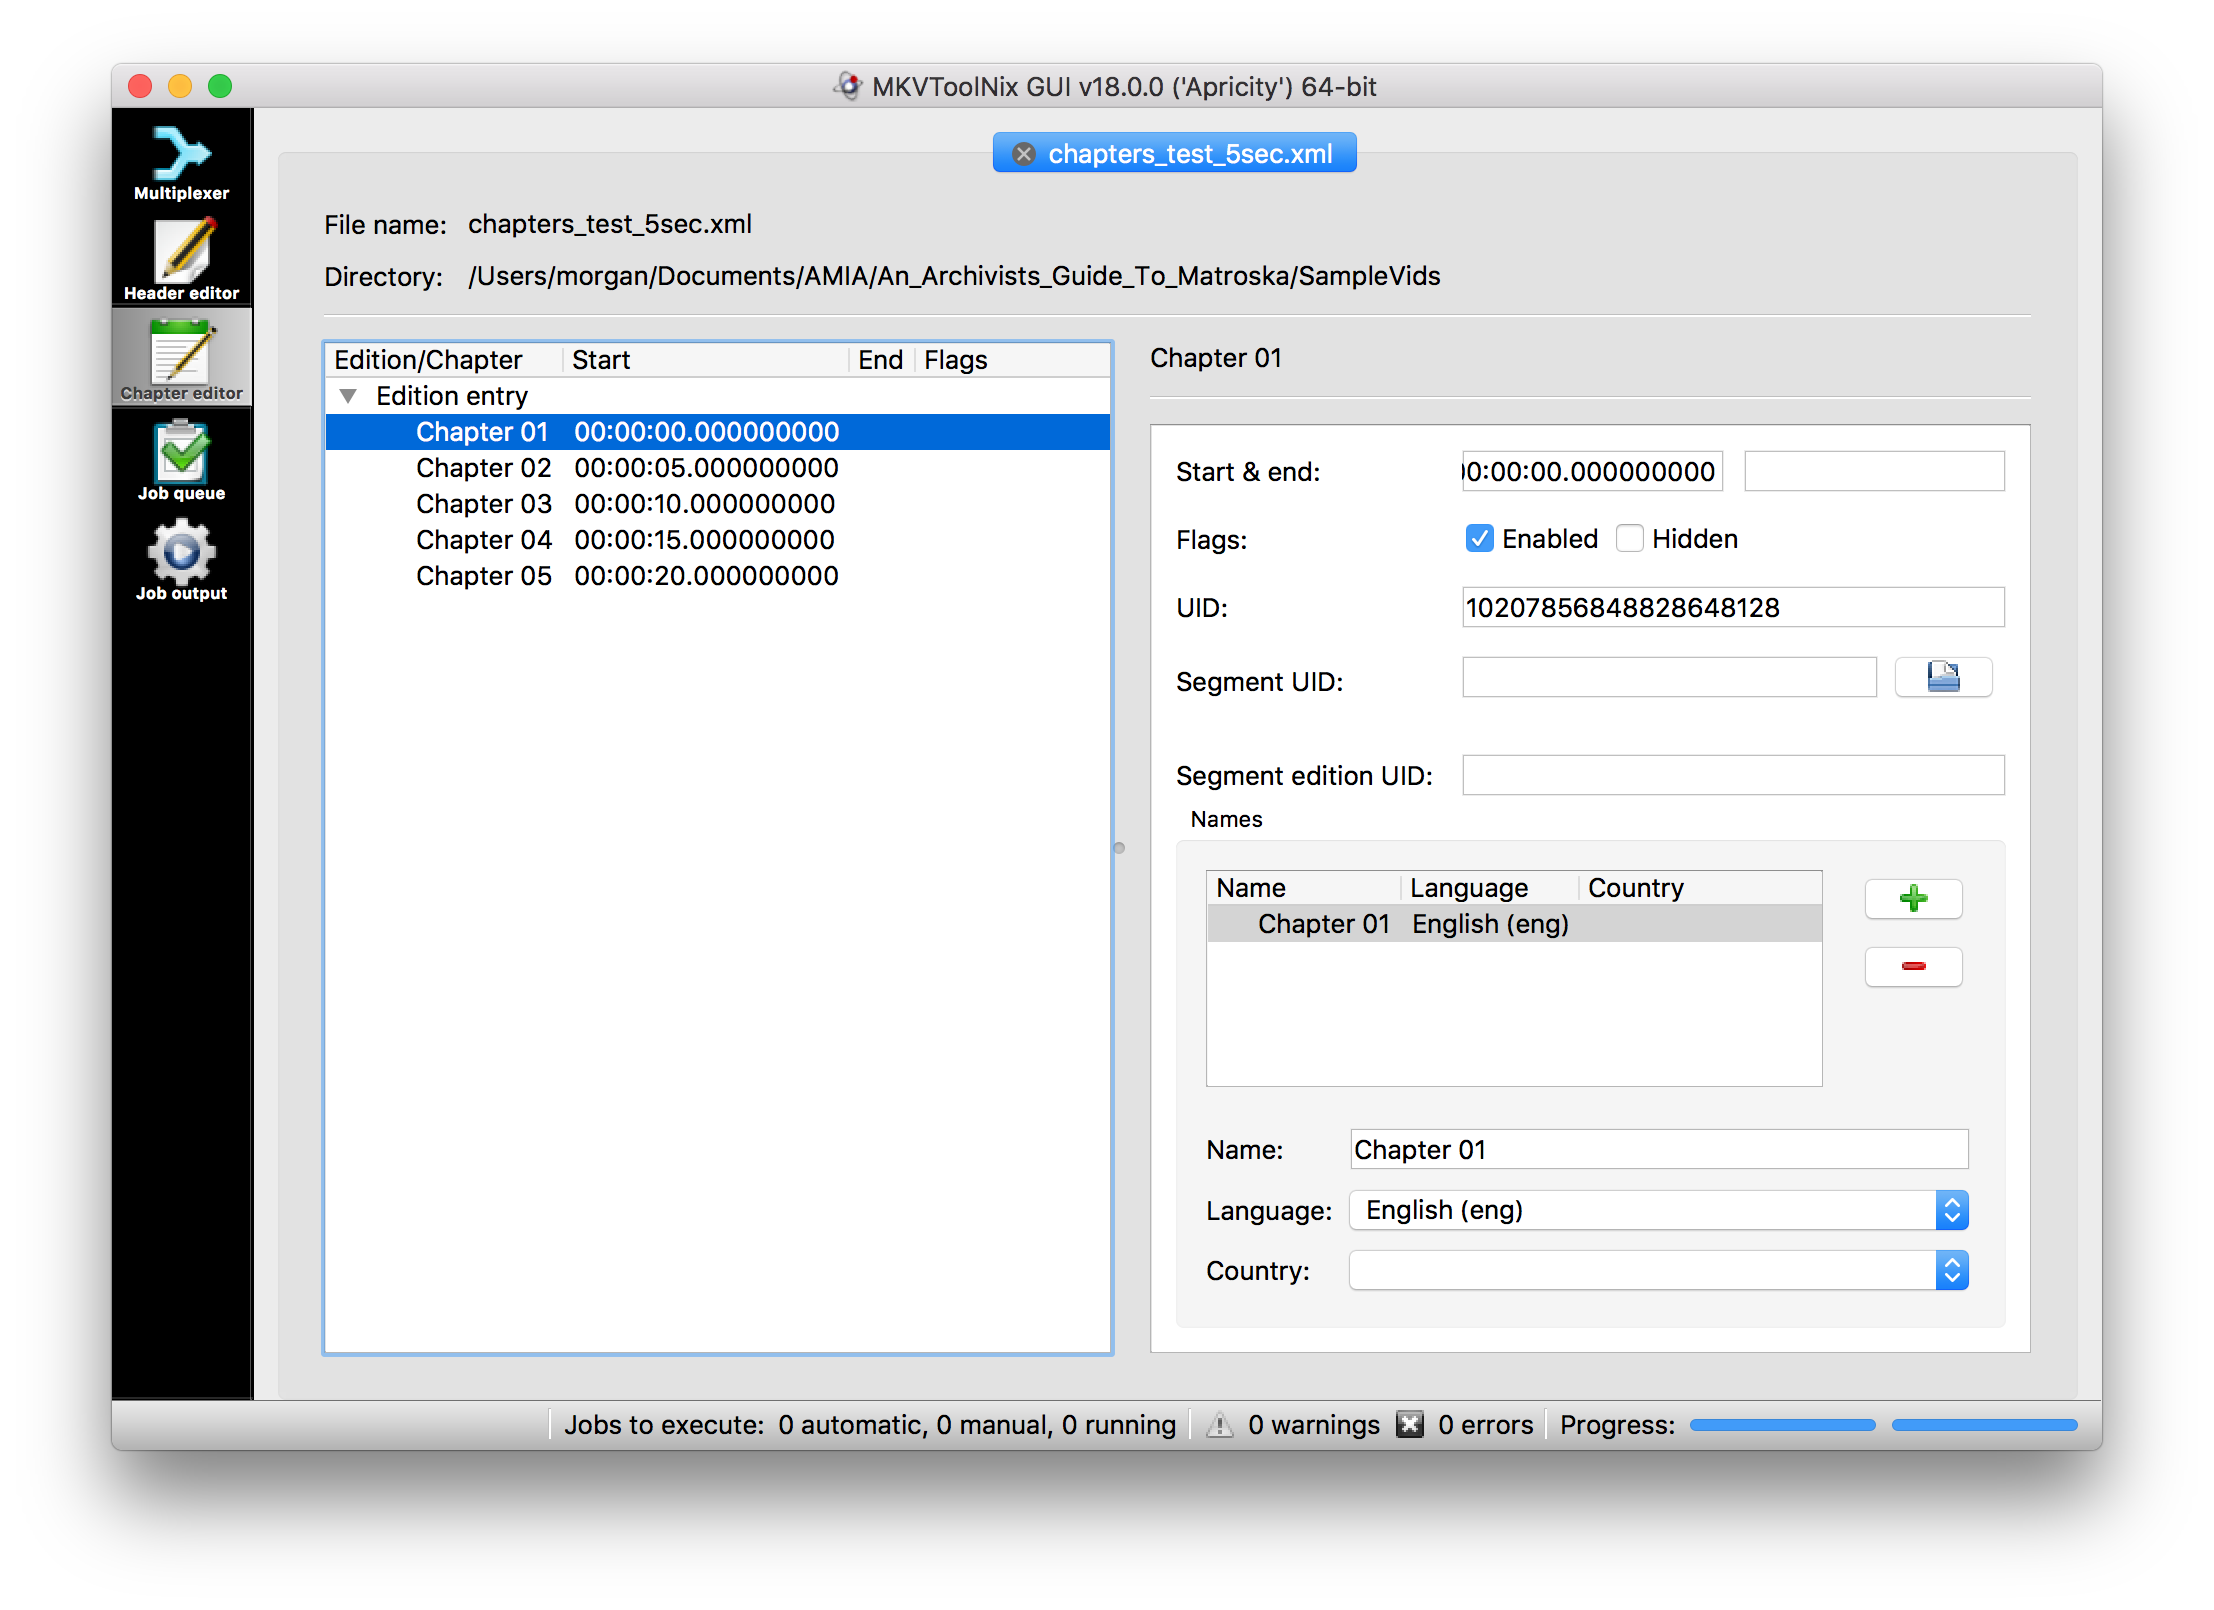
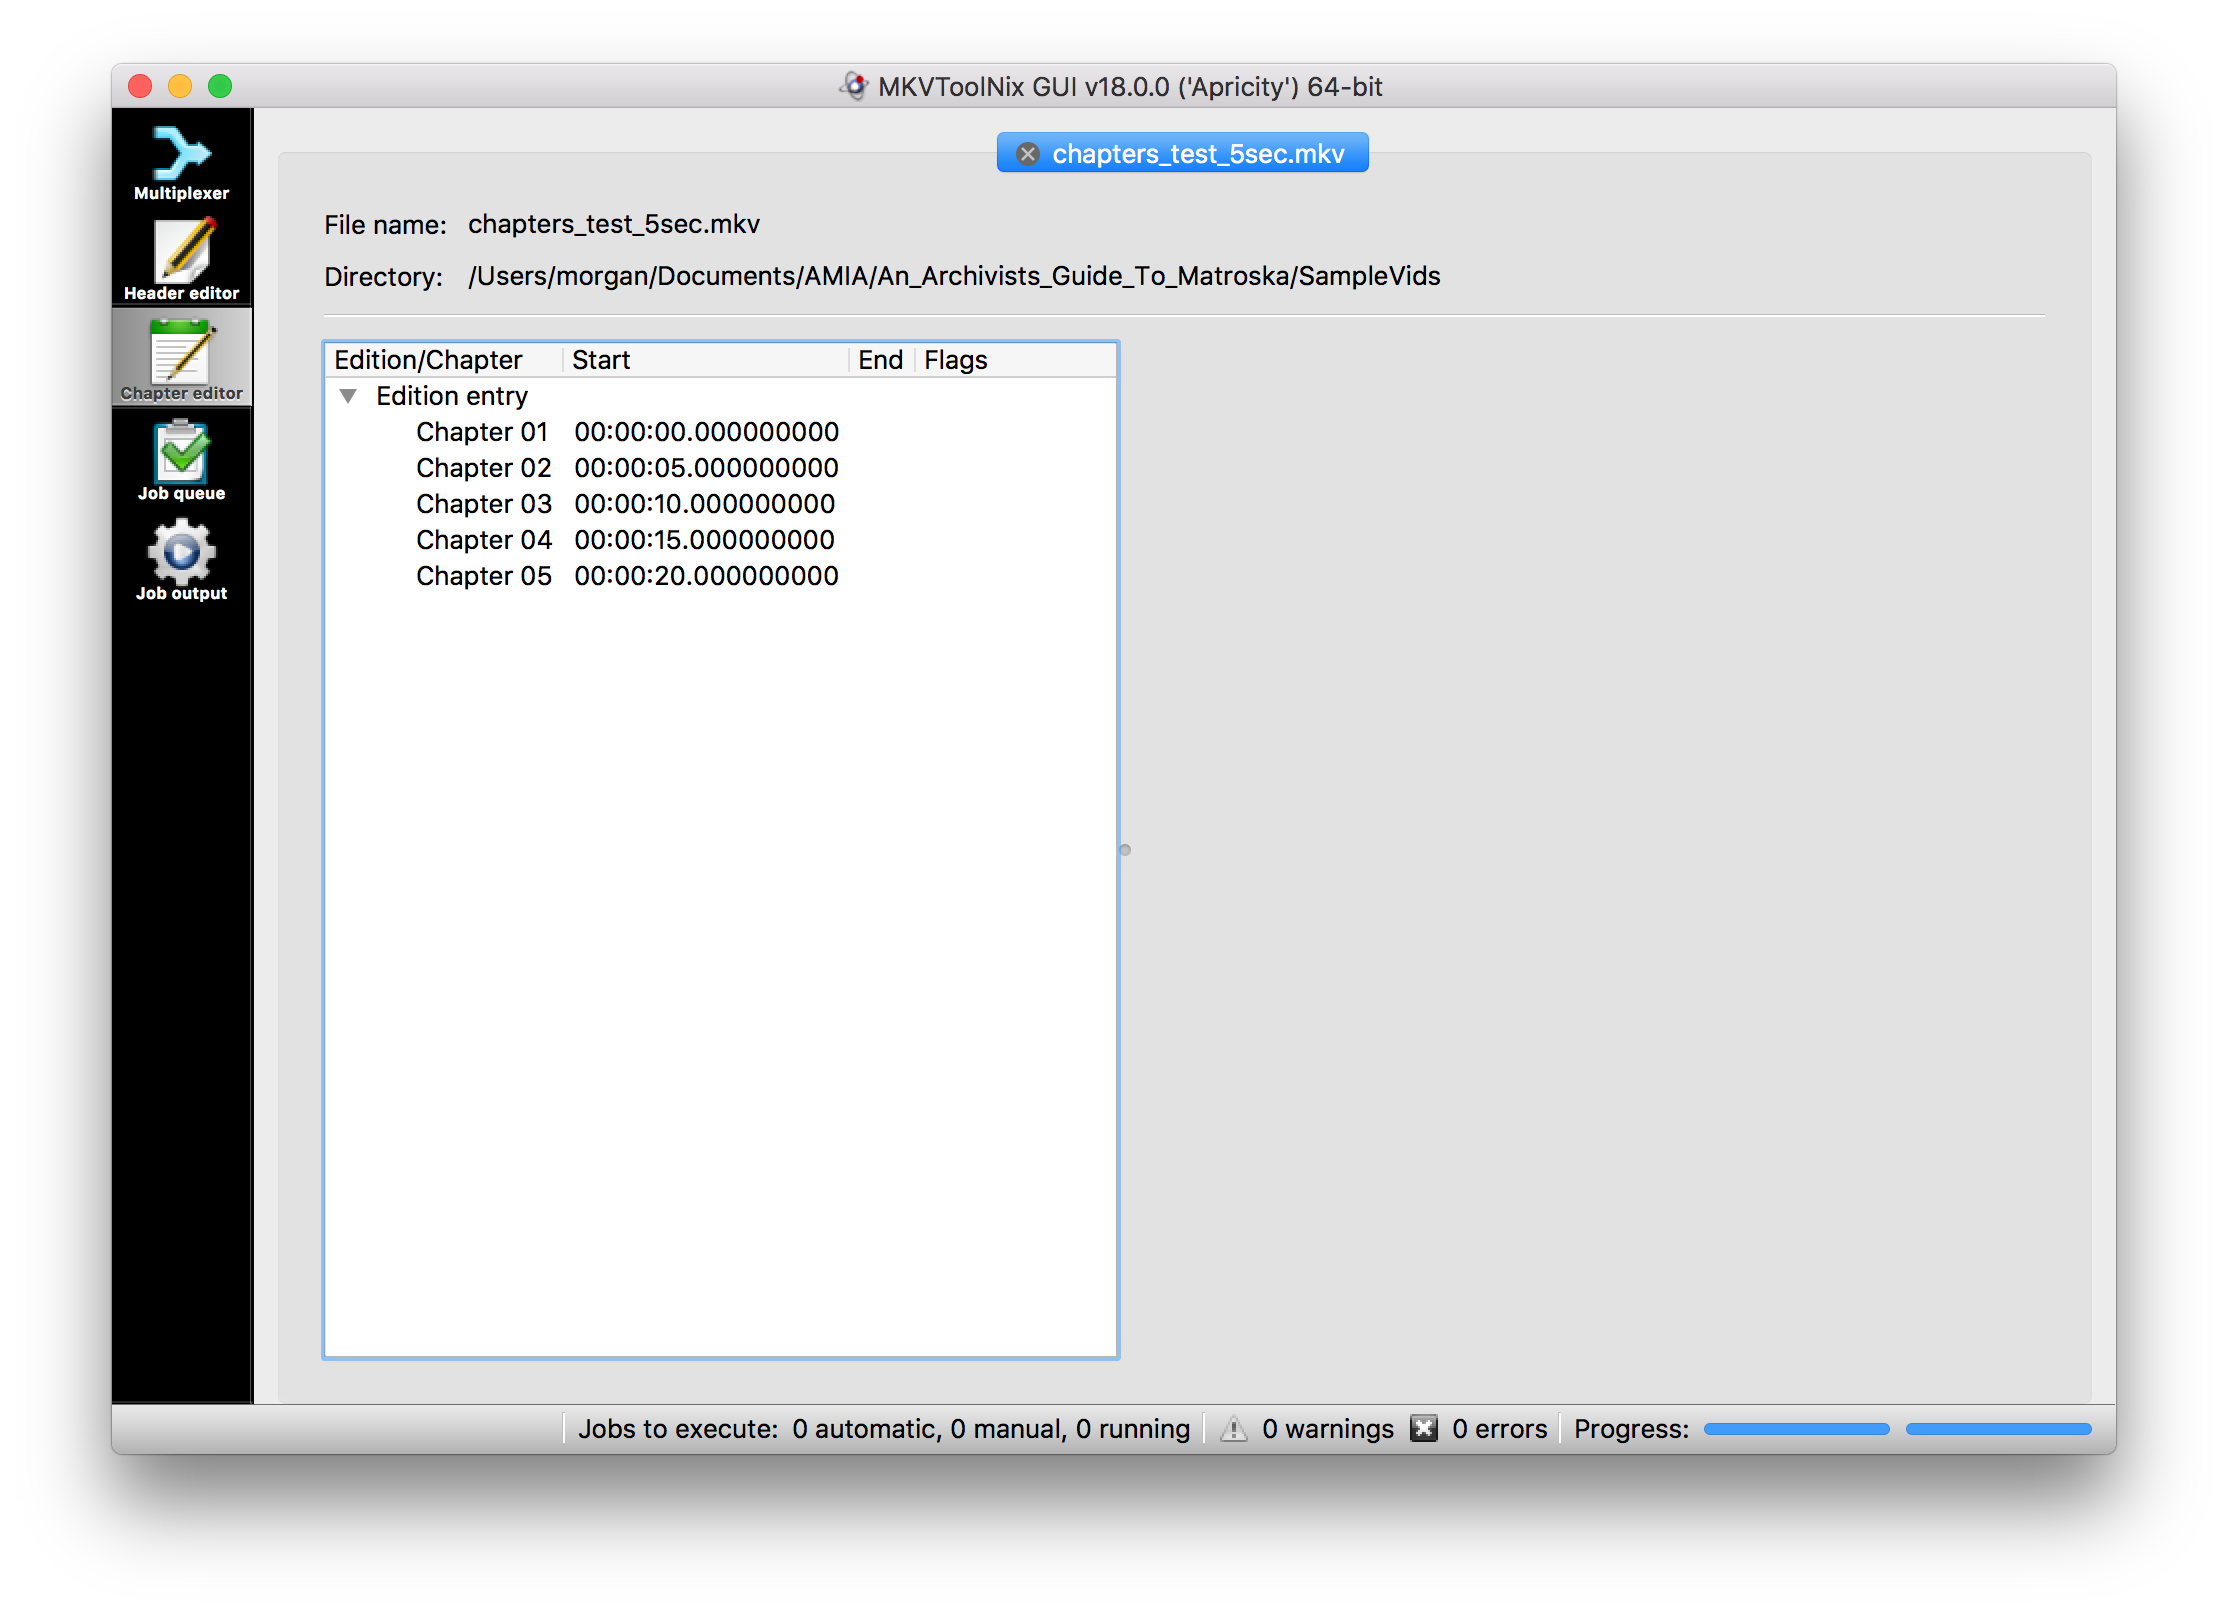
updating chapters.md

diff --git a/chapters.md b/chapters.md
@@ -12,7 +12,9 @@ This file will be used throughout the Chapters exercise.
 
 ## MKXToolNix GUI
 
-### Creating Chapters
+### Creating Chapters in Fixed Intervals 
+
+This section will explain how to use the MKVToolNix GUI app to create, edit, and export chapter information. 
 
 Open MKVToolNix. Navigate to the *Multiplexer* sidebar tab. 
 
@@ -22,7 +24,7 @@ Drop in **chapters_test.mkv**. This will populate the *Input* tab at the top of 
 
 ![alt text](https://github.com/amiaopensource/An_Archivists_Guide_To_Matroska/blob/master/Screenshots/Chapters02.png "Input tab")
 
-In the *Source files:* section you should see only **chapters_test.srt**. If you see any
+In the *Source files:* section you should see only **chapters_test.mkv**. If you see any
 extra files remove them by right-clicking and selected *Remove File*. 
 
 In the *Tracks, chapters, and tags:* section you should see a Video track, an Audio track, a Subtitles track, and some tags. 
@@ -41,29 +43,32 @@ Open **chapters\_test\_5sec.mkv** with VLC. Skip around the Chapters using *Play
 
 ![alt text](https://github.com/amiaopensource/An_Archivists_Guide_To_Matroska/blob/master/Screenshots/Chapters04.png "Chapters in VLC")
 
-Export the chapter info to an XML file using mkvextract
+### Exporting Chapters to XML Data 
 
-```
-mkvextract chapters chapters_test_5sec.mkv > chapters_test_5sec.xml
-```
-
-Go back to MKVToolNix, Navigate to the *Chapter editor* sidebar tab.  Drop in **chapters_test_5sec.xml**. You should see five chapters 
-appear in the window on the left-hand side. Clicking on any of the chapters will allow you edit information about the chapters.
+Go back to MKVToolNix, Navigate to the *Chapter editor* sidebar tab. Drop in **chapters_test_5sec.mkv**. You should see five chapters 
+appear in the window on the left-hand side. 
 
 ![alt text](https://github.com/amiaopensource/An_Archivists_Guide_To_Matroska/blob/master/Screenshots/Chapters05.png "Chapters Editor 5sec")
 
-Edit the chapters in this window to make your own custom chapters for the file. 
-
-![alt text](https://github.com/amiaopensource/An_Archivists_Guide_To_Matroska/blob/master/Screenshots/Chapters06.png "Chapters Editor custom")
-
-Once you're finished, save the file by clicking (at the top of the screen) *Chapter editor -> Save as XML file*. Save the file as **chapter\_test\_custom.xml**
-
+Export this info to an XML file by clicking (at the top of the screen) *Chapter editor -> Save as XML file*. Save the file as **chapter\_test\_5sec.xml**
 
 ![alt text](https://github.com/amiaopensource/An_Archivists_Guide_To_Matroska/blob/master/Screenshots/Chapters07.png "Save as XML file")
 
 ![alt text](https://github.com/amiaopensource/An_Archivists_Guide_To_Matroska/blob/master/Screenshots/Chapters08.png "chapter_test_custom.xml")
 
-Return to the *Multiplexer* sidebar tab. 
+Open the XML file in a text editor and take a look!
+
+### Editing Chapter Data
+
+In MKVToolNix, Navigate to the *Chapter editor* sidebar tab. Drop in **chapters_test_5sec.xml**. You should see the familier five chapters.
+
+Clicking on any of the chapters will allow you edit information about the chapters.
+
+Edit the chapters in this window to make your own custom chapters for the file. 
+
+![alt text](https://github.com/amiaopensource/An_Archivists_Guide_To_Matroska/blob/master/Screenshots/Chapters06.png "Chapters Editor custom")
+
+Once you're finished, Return to the *Multiplexer* sidebar tab. 
 
 Drop in **chapters_test.mkv**
 
@@ -78,9 +83,48 @@ Press *Start multiplexing*. This will create the new file Matroska files with a 
 ![alt text](https://github.com/amiaopensource/An_Archivists_Guide_To_Matroska/blob/master/Screenshots/Chapters09.png "Multiplex new MKV with custom chapters")
 
 
- 
+### Embedding Attachments
 
+This section will explain how to use the MKVToolNix GUI app to embed attachments into the wrapper of an MKV file. This tool is very flexible, but there isn't 
+much in the way of guidelines as to how to use it in archival environments. In this example we'll be embedding a PBCore file in the MKV. This is not meant to be 
+an endorsement of the process, but an illustration of what's possible. 
 
+Start off by finding the samplePBCore.xml file, or making your own using mediainfo
+
+```
+mediainfo -f --Output=PBCore chapters_test_5sec.mkv > sampePBCore.xml
+```
+
+Open MKVToolNix, Navigate to the *Multiplexer* sidebar tab. 
+
+Drop in **chapter\_test\_custom.mkv**, and navigate to the  *Attachments* tab.
+
+```
+mkvmerge -i chapters_test_pbcore.mkv
+```
+
+You'll get the following output. 
+
+```
+File 'chapters_test_pbcore.mkv': container: Matroska
+Track ID 0: video (0x46465631 "FFV1")
+Track ID 1: audio (FLAC)
+Track ID 2: subtitles (SubRip/SRT)
+Attachment ID 1: type 'text/xml', size 5337 bytes, file name 'samplePBCore.xml'
+Chapters: 3 entries
+Global tags: 1 entry
+Tags for track ID 0: 1 entry
+Tags for track ID 1: 1 entry
+Tags for track ID 2: 1 entry
+```
+
+From here we can see that the ID for samplePBCore.xml is "1". We can now use mkvextract to extract the specific attachment using the following string
+
+```
+mkvextract attachments chapters_test_pbcore.mkv 1:samplePBCore_Extracted.xml
+```
+
+Open up both PBCore files and compare!
 
 
 
